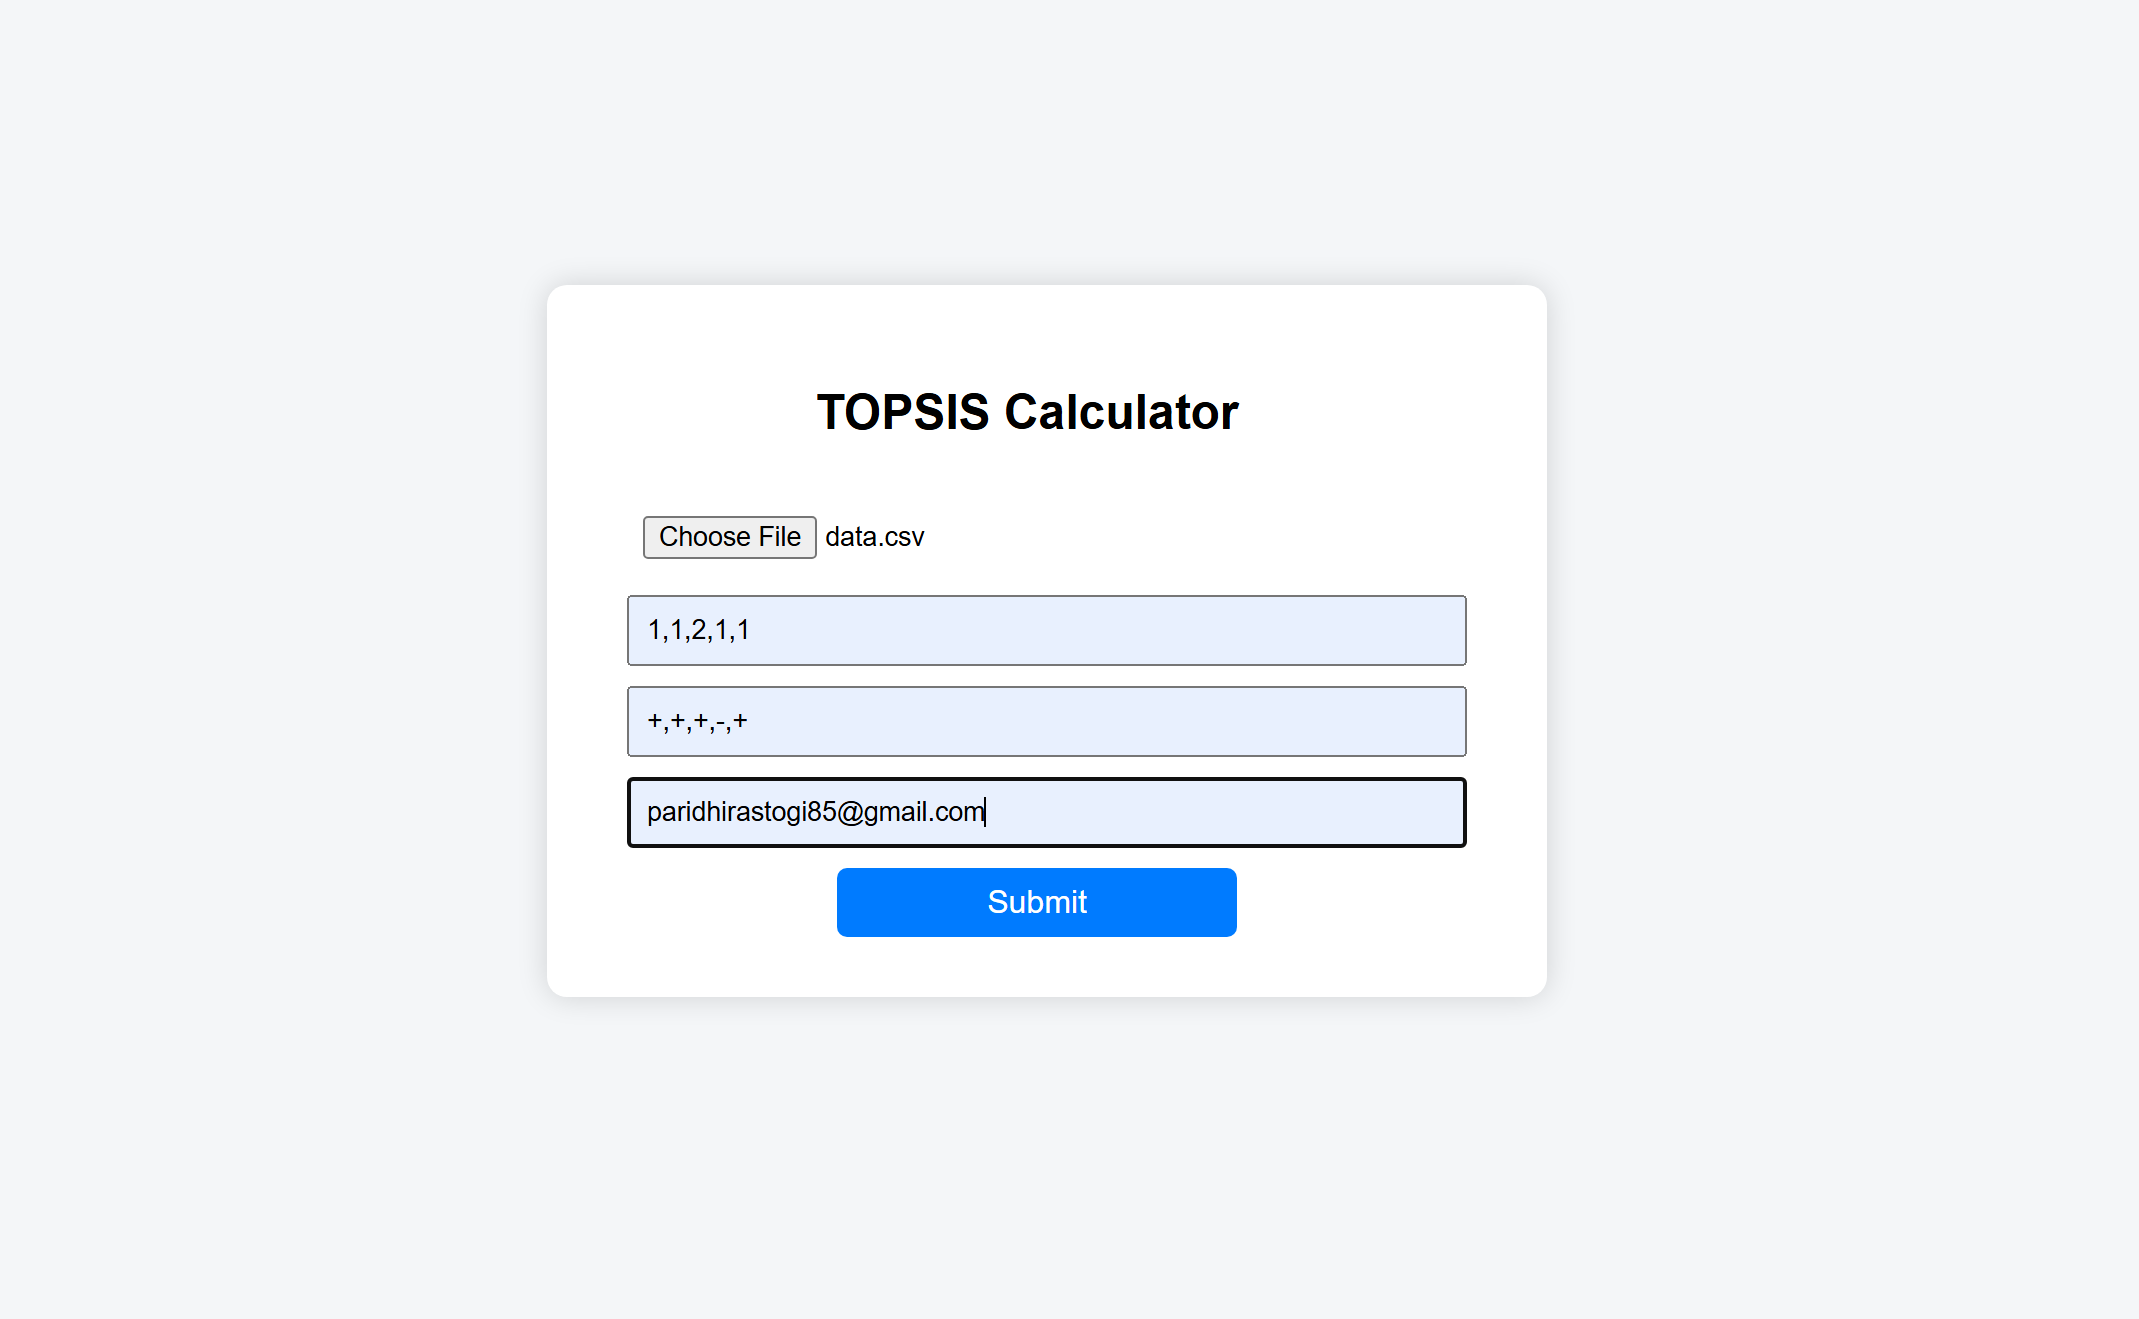
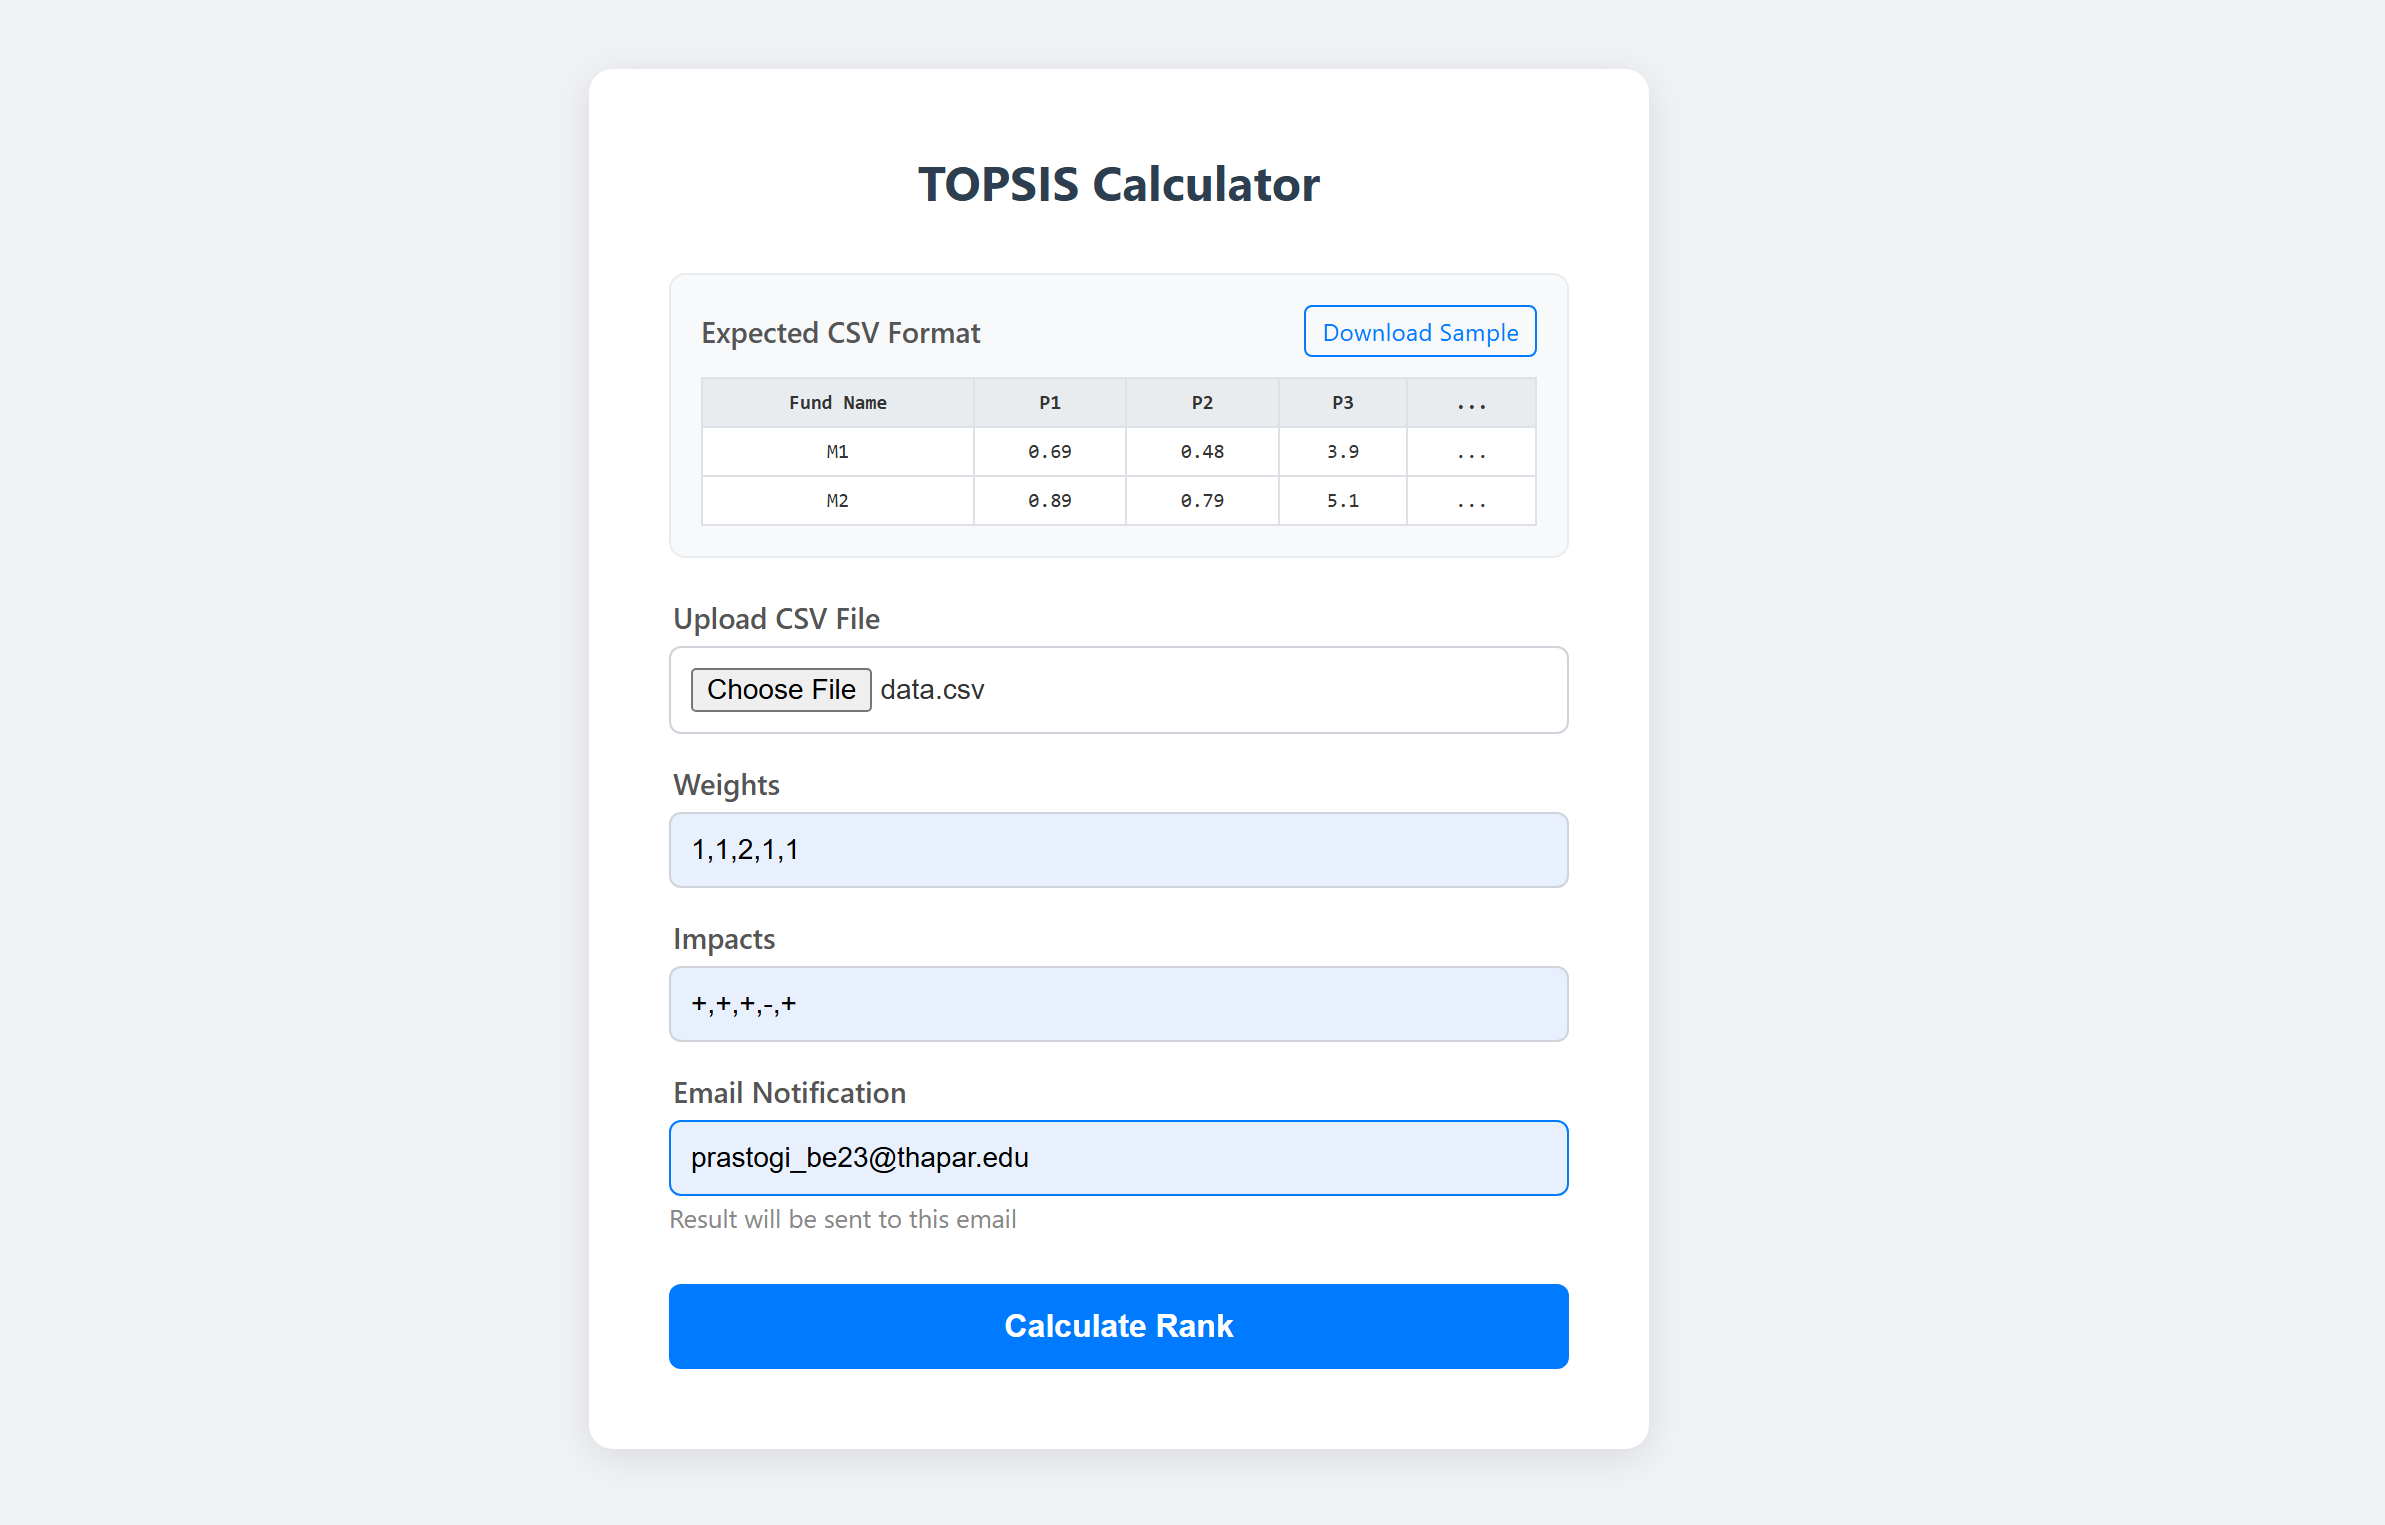
Initial Commit

diff --git a/Part3/templates/index.html b/Part3/templates/index.html
@@ -1,57 +1,245 @@
 <!DOCTYPE html>
-<html>
+<html lang="en">
 <head>
+    <meta charset="UTF-8">
+    <meta name="viewport" content="width=device-width, initial-scale=1.0">
     <title>TOPSIS Web Service</title>
-     <style>
+    <style>
         body {
             height: 100vh;
             margin: 0;
             display: flex;
-            justify-content: center;   /* horizontal center */
-            align-items: center;       /* vertical center */
-            background-color: #f4f6f8;
-            font-family: Arial, sans-serif;
+            justify-content: center;
+            align-items: center;
+            background-color: #f0f2f5;
+            font-family: 'Segoe UI', Tahoma, Geneva, Verdana, sans-serif;
+            color: #333;
         }
 
         .container {
             background: white;
-            padding: 30px 60px 30px 40px;
-            border-radius: 10px;
-            box-shadow: 0 0 15px rgba(0,0,0,0.15);
-            width: 400px;
+            padding: 40px;
+            border-radius: 12px;
+            box-shadow: 0 4px 20px rgba(0,0,0,0.1);
+            width: 450px;
+            max-width: 90%;
+            display: flex;
+            flex-direction: column;
+            gap: 20px;
+        }
+
+        h2 {
+            margin: 0 0 10px 0;
+            text-align: center;
+            color: #2c3e50;
+        }
+
+        /* Sample Data Section Styles */
+        .sample-section {
+            background-color: #f8f9fa;
+            padding: 15px;
+            border-radius: 8px;
+            border: 1px solid #e9ecef;
+            font-size: 0.9em;
+        }
+
+        .sample-header {
+            display: flex;
+            justify-content: space-between;
+            align-items: center;
+            margin-bottom: 10px;
+        }
+
+        .sample-title {
+            font-weight: 600;
+            color: #555;
+        }
+
+        .download-link {
+            color: #007BFF;
+            text-decoration: none;
+            font-size: 0.85em;
+            cursor: pointer;
+            border: 1px solid #007BFF;
+            padding: 4px 8px;
+            border-radius: 4px;
+            transition: all 0.2s;
+        }
+
+        .download-link:hover {
+            background-color: #007BFF;
+            color: white;
+        }
+
+        .data-preview {
+            width: 100%;
+            border-collapse: collapse;
+            font-family: monospace;
+            font-size: 0.85em;
+            background: white;
+        }
+
+        .data-preview th, .data-preview td {
+            border: 1px solid #dee2e6;
+            padding: 6px;
             text-align: center;
         }
 
-        input, button {
-            width: 100%;
-            padding: 8px;
-            margin-top: 10px;
+        .data-preview th {
+            background-color: #e9ecef;
         }
 
-        button {
+        /* Form Styles */
+        form {
+            display: flex;
+            flex-direction: column;
+            gap: 15px;
+        }
+
+        .input-group {
+            display: flex;
+            flex-direction: column;
+            gap: 5px;
+        }
+
+        label {
+            font-size: 0.9em;
+            font-weight: 600;
+            color: #555;
+            margin-left: 2px;
+        }
+
+        input[type="text"], 
+        input[type="email"], 
+        input[type="file"] {
+            width: 100%;
+            padding: 10px;
+            border: 1px solid #ced4da;
+            border-radius: 6px;
+            box-sizing: border-box; /* Ensures padding doesn't affect width */
+            font-size: 14px;
+            transition: border-color 0.2s;
+        }
+
+        input:focus {
+            border-color: #007BFF;
+            outline: none;
+        }
+
+        button.submit-btn {
             cursor: pointer;
             background-color: #007BFF;
             color: white;
             border: none;
-            border-radius: 5px;
+            border-radius: 6px;
             font-size: 16px;
-            margin-left: 10px;
-            width: 50%;
+            font-weight: 600;
+            padding: 12px;
+            margin-top: 10px;
+            transition: background-color 0.2s;
+            width: 100%;
+        }
+
+        button.submit-btn:hover {
+            background-color: #0056b3;
+        }
+
+        .helper-text {
+            font-size: 0.8em;
+            color: #888;
+            margin-top: -3px;
         }
     </style>
 </head>
 <body>
-    
+
 <div class="container">
     <h2>TOPSIS Calculator</h2>
 
+    <div class="sample-section">
+        <div class="sample-header">
+            <span class="sample-title">Expected CSV Format</span>
+            <a class="download-link" onclick="downloadSample()">Download Sample</a>
+        </div>
+        <table class="data-preview">
+            <thead>
+                <tr>
+                    <th>Fund Name</th>
+                    <th>P1</th>
+                    <th>P2</th>
+                    <th>P3</th>
+                    <th>...</th>
+                </tr>
+            </thead>
+            <tbody>
+                <tr>
+                    <td>M1</td>
+                    <td>0.69</td>
+                    <td>0.48</td>
+                    <td>3.9</td>
+                    <td>...</td>
+                </tr>
+                <tr>
+                    <td>M2</td>
+                    <td>0.89</td>
+                    <td>0.79</td>
+                    <td>5.1</td>
+                    <td>...</td>
+                </tr>
+            </tbody>
+        </table>
+    </div>
+
     <form method="POST" enctype="multipart/form-data">
-        <input type="file" name="file" required>
-        <input type="text" name="weights" placeholder="Weights (e.g. 1,1,1,1,1)" required>
-        <input type="text" name="impacts" placeholder="Impacts (e.g. +,+,-,+,+)" required>
-        <input type="email" name="email" placeholder="Email ID" required>
-        <button type="submit">Submit</button>
+        <div class="input-group">
+            <label for="file">Upload CSV File</label>
+            <input type="file" id="file" name="file" accept=".csv" required>
+        </div>
+
+        <div class="input-group">
+            <label for="weights">Weights</label>
+            <input type="text" id="weights" name="weights" placeholder="e.g. 1,1,1,1,1" required>
+        </div>
+
+        <div class="input-group">
+            <label for="impacts">Impacts</label>
+            <input type="text" id="impacts" name="impacts" placeholder="e.g. +,+,-,+,+" required>
+        </div>
+
+        <div class="input-group">
+            <label for="email">Email Notification</label>
+            <input type="email" id="email" name="email" placeholder="yourname@example.com" required>
+            <span class="helper-text">Result will be sent to this email</span>
+        </div>
+
+        <button type="submit" class="submit-btn">Calculate Rank</button>
     </form>
 </div>
+
+<script>
+    function downloadSample() {
+        // Content of the sample CSV file
+        const csvContent = "Fund Name,P1,P2,P3,P4,P5\n" +
+                           "M1,0.69,0.48,3.9,68.1,18.29\n" +
+                           "M2,0.89,0.79,5.1,58.7,16.37\n" +
+                           "M3,0.81,0.66,6.2,44.1,12.94\n" +
+                           "M4,0.81,0.66,3.2,53.0,14.42\n" +
+                           "M5,0.68,0.46,6.8,65.6,18.39";
+
+        // Create a blob and trigger download
+        const blob = new Blob([csvContent], { type: 'text/csv;charset=utf-8;' });
+        const link = document.createElement("a");
+        const url = URL.createObjectURL(blob);
+        
+        link.setAttribute("href", url);
+        link.setAttribute("download", "sample_data.csv");
+        link.style.visibility = 'hidden';
+        
+        document.body.appendChild(link);
+        link.click();
+        document.body.removeChild(link);
+    }
+</script>
+
 </body>
 </html>

diff --git a/Part3/app.py b/Part3/app.py
@@ -58,3 +58,4 @@ def index():
 
 if __name__ == "__main__":
     app.run(host="0.0.0.0", port=5000)
+    

diff --git a/Part3/README.md b/Part3/README.md
@@ -1,3 +1,31 @@
 # Part III – Web service for TOPSIS
 
+# 📊 TOPSIS Web Calculator
 
+> A web-based Multi-Criteria Decision Making (MCDM) tool built with Flask.
+
+This application allows users to perform **TOPSIS (Technique for Order of Preference by Similarity to Ideal Solution)** analysis on their datasets effortlessly. Users can upload a CSV file, define weights and impacts, and receive the calculated rankings directly via email.
+
+## 🚀 Features
+
+* **CSV File Upload:** robust handling of CSV datasets.
+* **Dynamic Inputs:** Accepts custom weights (e.g., `1,1,1,2,1`) and impacts (e.g., `+,+,-,+,-`).
+* **Sample Data:** built-in option to download a correctly formatted sample CSV file.
+* **Email Integration:** Automatically sends the result file (with calculated scores and ranks) to the user's email address.
+* **Responsive UI:** Clean, modern interface designed for ease of use.
+
+## Screenshots
+
+### Home Page:
+![Dashboard Screenshot](Screenshots/Home.png)
+
+### Filled Form:
+![Dashboard Screenshot](Screenshots/Filled_Form.png)
+
+### Success Message:
+![Dashboard Screenshot](Screenshots/Success_Message.png)
+
+### Email Recieved:
+![Dashboard Screenshot](Screenshots/email_recieved.png)
+
+## Deployed Link
